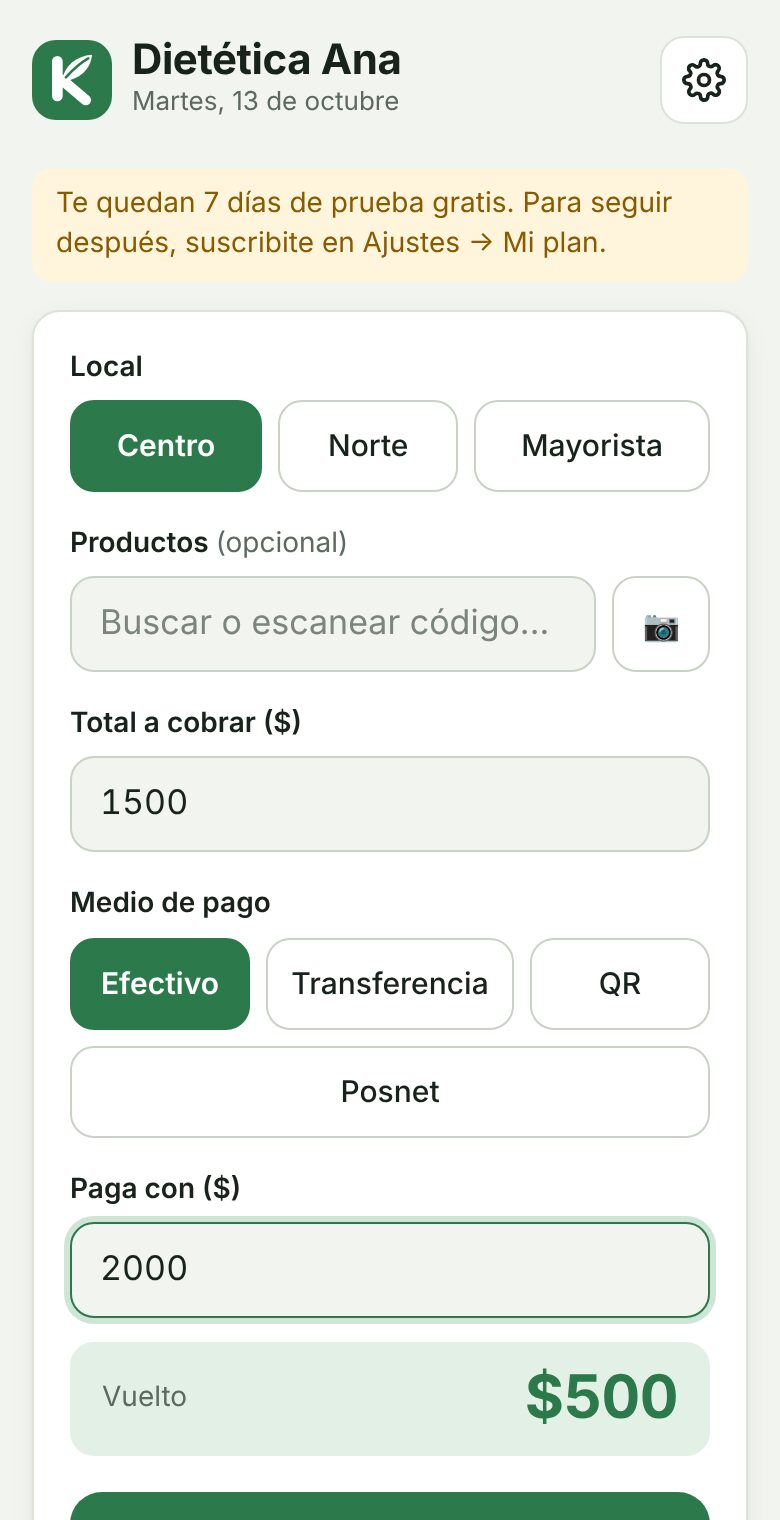
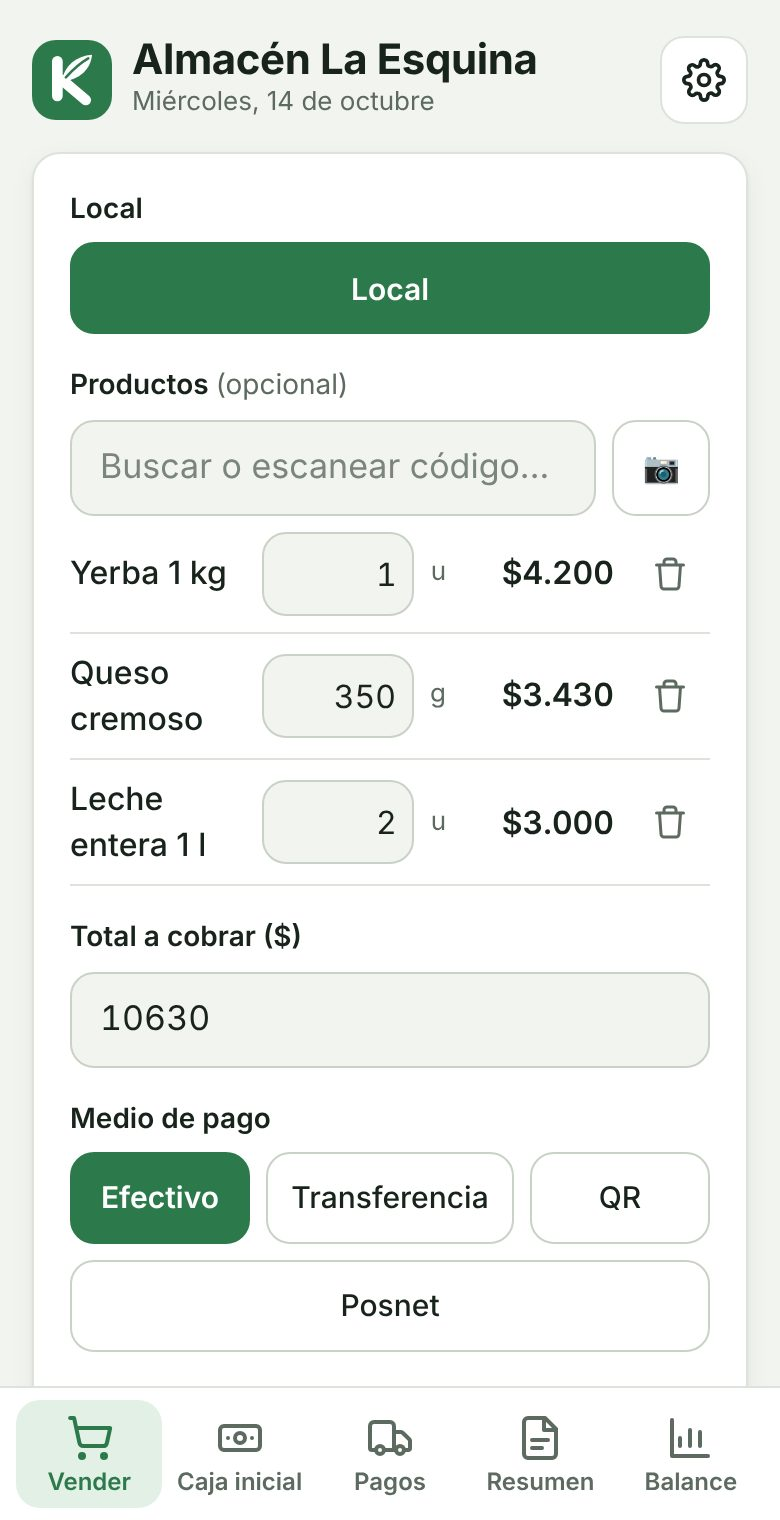
Página principal: capturas nuevas sacadas de la demo
Claude-Session: https://claude.ai/code/session_01J91AXEUx36F5MbcyjL9JdC

diff --git a/sitio/index.html b/sitio/index.html
@@ -43,7 +43,7 @@
       </div>
       <p class="tranqui">La demo abre sin registrarte, con un negocio de ejemplo · La prueba es sin tarjeta y sin contrato</p>
     </div>
-    <div class="tel"><img src="img/vender.jpg" alt="Pantalla de Kovo para anotar una venta: local, productos, total, medio de pago y vuelto" width="390" height="760"></div>
+    <div class="tel"><img src="img/vender.jpg?v=2" alt="Pantalla de Kovo para anotar una venta: local, productos, total, medio de pago y vuelto" width="390" height="760"></div>
   </section>
 
   <div class="franja">
@@ -77,7 +77,7 @@
         <li>Si te equivocás, deshacés la venta y el stock vuelve</li>
       </ul>
     </div>
-    <img class="cap" src="img/vender.jpg" alt="Pantalla para vender" loading="lazy" width="390" height="760">
+    <img class="cap" src="img/cobrar.jpg?v=2" alt="Cobro en efectivo: total, con cuánto paga y el vuelto" loading="lazy" width="390" height="760">
   </section>
 
   <section class="bloque inv">
@@ -90,7 +90,7 @@
         <li>Descargás las ventas del día en una planilla</li>
       </ul>
     </div>
-    <img class="cap" src="img/resumen.jpg" alt="Resumen de la caja del día" loading="lazy" width="390" height="760">
+    <img class="cap" src="img/resumen.jpg?v=2" alt="Resumen de la caja del día" loading="lazy" width="390" height="760">
   </section>
 
   <section class="bloque">
@@ -103,7 +103,7 @@
         <li>Copia de seguridad del mes en un toque</li>
       </ul>
     </div>
-    <img class="cap" src="img/balance.jpg" alt="Balance del mes" loading="lazy" width="390" height="760">
+    <img class="cap" src="img/balance.jpg?v=2" alt="Balance del mes" loading="lazy" width="390" height="760">
   </section>
 
   <section class="mas">
